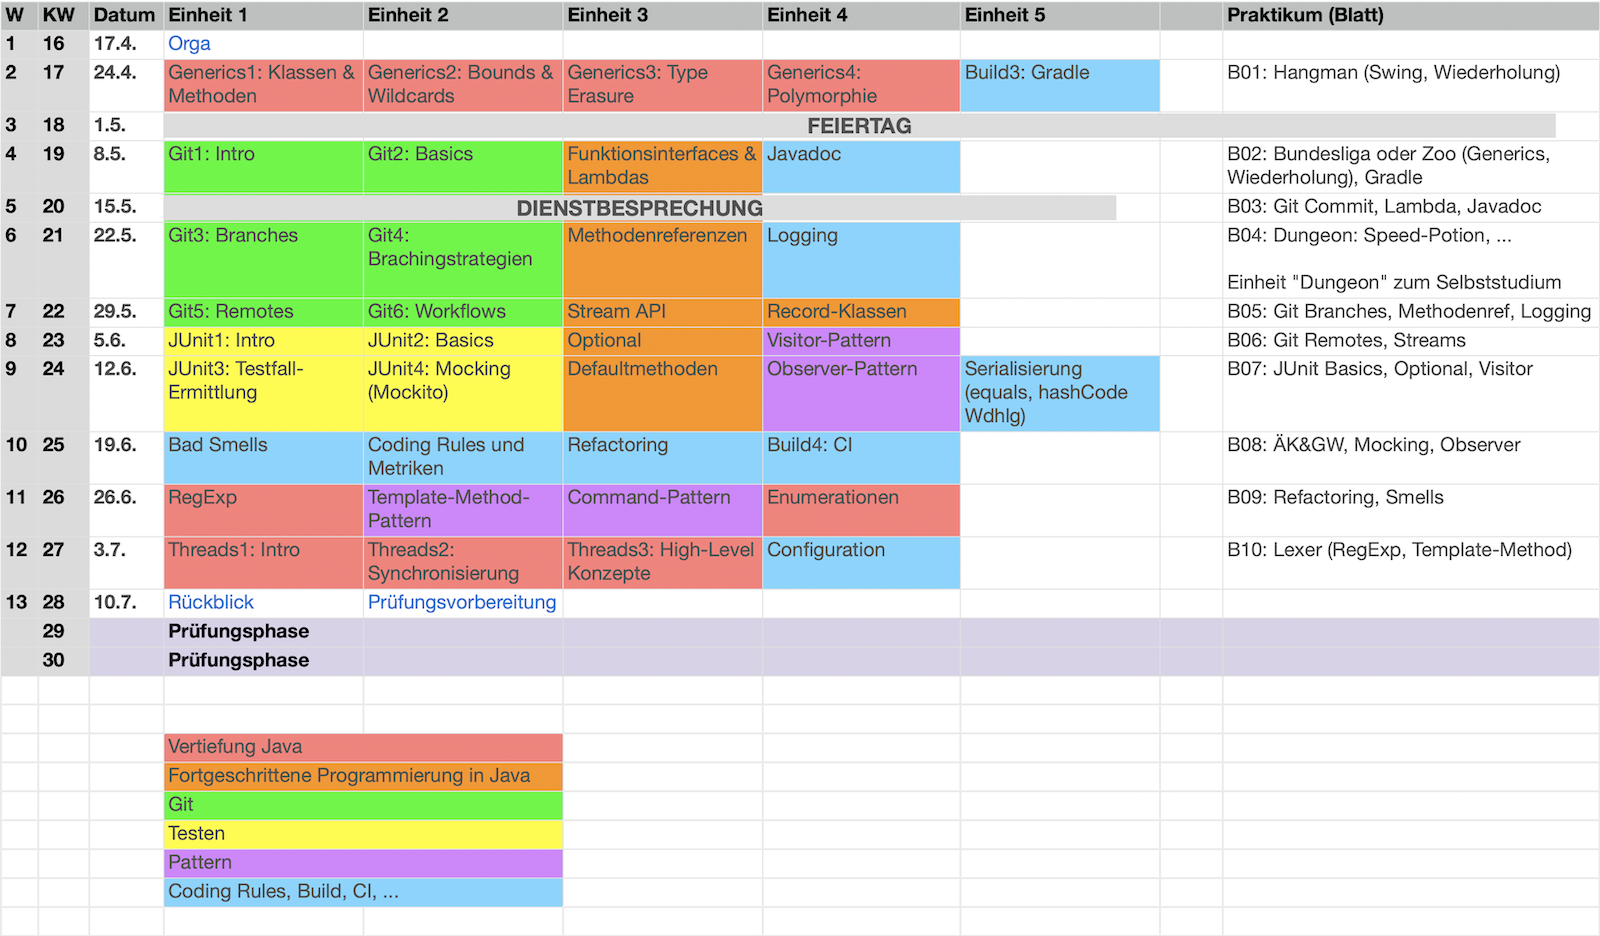
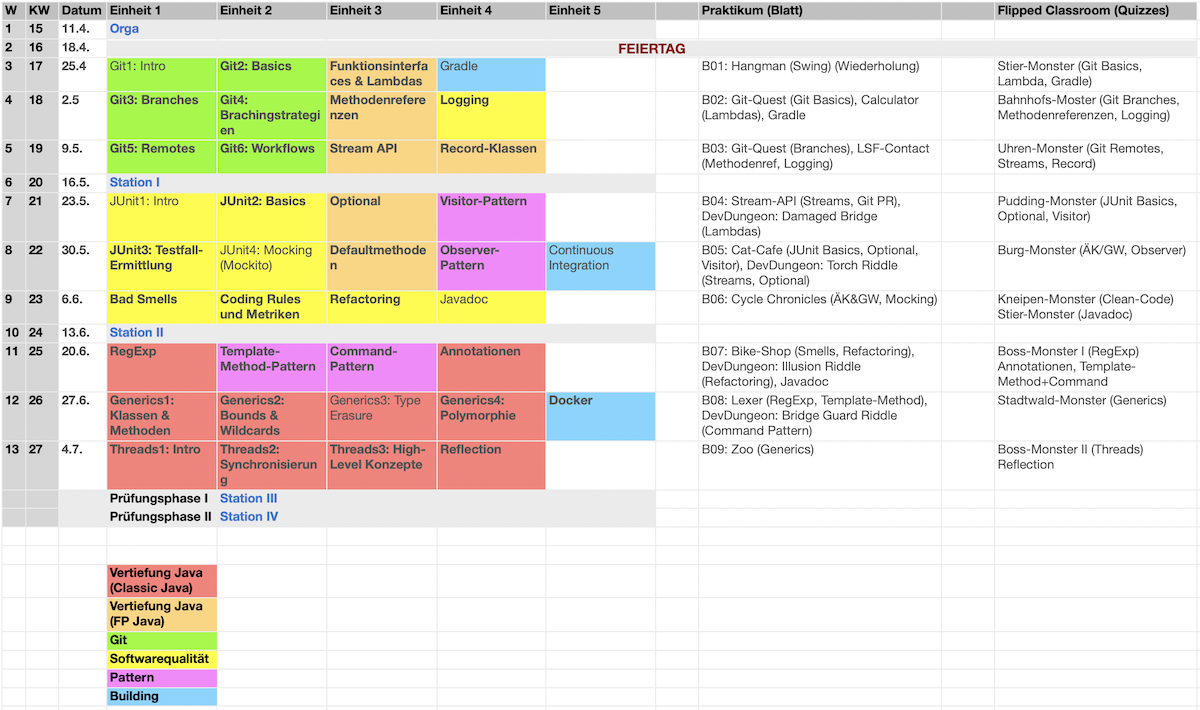
Orga: Update 'Fahrplan' for S25

diff --git a/readme.md b/readme.md
@@ -87,8 +87,8 @@ Durchführung als **Flipped Classroom**.
 |:-----------------|:----------------------|:-------|
 | Gruppe 1         | Fr, 09:45 - 11:15 Uhr | online |
 | Gruppe 2         | Fr, 11:30 - 13:00 Uhr | online |
-| Gruppe 3         | Mi, 09:45 - 11:15 Uhr | online |
-| Gruppe 4         | Mi, 11:30 - 13:00 Uhr | online |
+| Gruppe 3         | Fr, 09:45 - 11:15 Uhr | online |
+| Gruppe 4         | Fr, 11:30 - 13:00 Uhr | online |
 
 :::
 ::::::
@@ -111,27 +111,28 @@ Sie _können_ hierzu den Raum J101 bzw. J104 (vgl. Stundenplan) nutzen.
 
 Hier finden Sie einen abonnierbaren [Google Kalender] mit allen Terminen der Veranstaltung zum Einbinden in Ihre Kalender-App.
 
-| Monat | Tag   | Vorlesung                                                                                         | Praktikum        |
-|:------|:------|:--------------------------------------------------------------------------------------------------|:-----------------|
-| April | 17.   | Orga (**Zoom**), [FAQ]                                                                            |                  |
-|       | 24.   | Generics: [Klassen und Methoden], [Bounds und Wildcards], [Type Erasure], [Polymorphie]; [Gradle] | [B01]            |
-| Mai   | 01.   | **Mai-Feiertag**                                                                                  | **Mai-Feiertag** |
-|       | 08.   | [Einführung Versionierung], [Git Basics]; [Lambda-Ausdrücke]; [Javadoc]                           | [B02]            |
-|       | 15.   | **Dienstbesprechung**                                                                             | [B03]            |
-|       | 22.   | [Git-Branches], [Branching-Strategien]; [Methodenreferenzen]; [Logging]                           | [B04]            |
-|       | 29.   | [Git-Remotes], [Git-Workflows]; [Stream-API]; [Record-Klassen]; [Intro Dungeon]                   | [B05]            |
-| Juni  | 05.   | [Einführung Testen], [JUnit-Basics]; [Optional]; [Visitor-Pattern]                                | [B06]            |
-|       | 12.   | [Testfallermittlung], [Mocking]; [Default-Methoden]; [Observer-Pattern]; [Serialisierung]         | [B07]            |
-|       | 19.   | [Code-Smells], [Coding-Rules], [Refactoring]; [Continuous Integration (CI)]                       | [B08]            |
-|       | 26.   | [RegExp]; [Template-Method-Pattern], [Command-Pattern]; [Enumerationen]                           | [B09]            |
-| Juli  | 03.   | [Intro Threads], [Synchronisierung], [Highlevel Threadkonzepte]; [Konfiguration]                  | [B09]            |
-|       | 10.   | Rückblick (**Zoom**), [Prüfungsvorbereitung]                                                      |                  |
-|       | _tbd_ | Klausur (Campus Minden, B40)                                                                      |                  |
+| Monat              | Tag   | Vorlesung                                                                                              | Praktikum    |
+|:-------------------|:------|:-------------------------------------------------------------------------------------------------------|:-------------|
+| April              | 11.   | Orga (**Zoom**), [FAQ], [Prüfungsvorbereitung]                                                         |              |
+|                    | 18.   | **Feiertag**                                                                                           | **Feiertag** |
+|                    | 25.   | [Einführung Versionierung], [Git Basics]; [Lambda-Ausdrücke]; [Gradle]                                 | [B01]        |
+| Mai                | 02.   | [Git-Branches], [Branching-Strategien]; [Methodenreferenzen]; [Logging]                                | [B02]        |
+|                    | 09.   | [Git-Remotes], [Git-Workflows]; [Stream-API]; [Record-Klassen]                                         | [B03]        |
+|                    | 16.   | **Station I**                                                                                          |              |
+|                    | 23.   | [Einführung Testen], [JUnit-Basics]; [Optional]; [Visitor-Pattern]                                     | [B04]        |
+|                    | 30.   | [Testfallermittlung], [Mocking]; [Default-Methoden]; [Observer-Pattern]; [Continuous Integration (CI)] | [B05]        |
+| Juni               | 06.   | [Code-Smells], [Coding-Rules], [Refactoring]; [Javadoc]                                                | [B06]        |
+|                    | 13.   | **Station II**                                                                                         |              |
+|                    | 20.   | [RegExp]; [Template-Method-Pattern], [Command-Pattern]; [Annotationen]                                 | [B07]        |
+|                    | 27.   | Generics: [Klassen und Methoden], [Bounds und Wildcards], [Type Erasure], [Polymorphie]; [Docker]      | [B08]        |
+| Juli               | 04.   | [Intro Threads], [Synchronisierung], [Highlevel Threadkonzepte]; [Reflection]                          | [B09]        |
+| _Prüfungsphase I_  | _tbd_ | **Station III**                                                                                        |              |
+| _Prüfungsphase II_ | _tbd_ | **Station IV**                                                                                         |              |
 
 Abgabe der Übungsblätter jeweils **bis 08:00 Uhr** [im ILIAS](https://www.hsbi.de/elearning/goto.php?target=exc_1356670&client_id=FH-Bielefeld).
 
 
-[Google Kalender]: https://calendar.google.com/calendar/ical/5121604486803dcdb5cfaa8602b8b09ce76743d8b9216795606617cac807e595%40group.calendar.google.com/public/basic.ics
+[Google Kalender]: https://calendar.google.com/calendar/ical/69ecbae80c817d60571a6ec968890b9b7ef0ffea5ce5dad1ef06c46eef7c530f%40group.calendar.google.com/public/basic.ics
 
 [Prüfungsvorbereitung]: admin/exams.md
 [FAQ]: https://github.com/Programmiermethoden-CampusMinden/Prog2-Lecture/discussions/categories/q-a
@@ -140,7 +141,7 @@ Abgabe der Übungsblätter jeweils **bis 08:00 Uhr** [im ILIAS](https://www.hsbi
 <!-- [ANT]: lecture/building/ant.md -->
 <!-- [Maven]: lecture/building/maven.md -->
 [Continuous Integration (CI)]: lecture/building/ci.md
-<!-- [Docker]: lecture/building/docker.md -->
+[Docker]: lecture/building/docker.md
 
 [Einführung Versionierung]: lecture/git/git-intro.md
 [Git Basics]: lecture/git/git-basics.md
@@ -163,14 +164,14 @@ Abgabe der Übungsblätter jeweils **bis 08:00 Uhr** [im ILIAS](https://www.hsbi
 [Bounds und Wildcards]: lecture/java-classic/generics-bounds-wildcards.md
 [Type Erasure]: lecture/java-classic/generics-type-erasure.md
 [Polymorphie]: lecture/java-classic/generics-polymorphism.md
-[Serialisierung]: lecture/java-classic/serialisation.md
+<!-- [Serialisierung]: lecture/java-classic/serialisation.md -->
 <!-- [Collections]: lecture/java-classic/collections.md -->
 [RegExp]: lecture/java-classic/regexp.md
-<!-- [Annotationen]: lecture/java-classic/annotations.md -->
-<!-- [Reflection]: lecture/java-classic/reflection.md -->
+[Annotationen]: lecture/java-classic/annotations.md
+[Reflection]: lecture/java-classic/reflection.md
 <!-- [Exception-Handling]: lecture/java-classic/exceptions.md -->
-[Enumerationen]: lecture/java-classic/enums.md
-[Konfiguration]: lecture/java-classic/configuration.md
+<!-- [Enumerationen]: lecture/java-classic/enums.md -->
+<!-- [Konfiguration]: lecture/java-classic/configuration.md -->
 [Intro Threads]: lecture/java-classic/threads-intro.md
 [Synchronisierung]: lecture/java-classic/threads-synchronisation.md
 [Highlevel Threadkonzepte]: lecture/java-classic/threads-highlevel.md
@@ -183,7 +184,7 @@ Abgabe der Übungsblätter jeweils **bis 08:00 Uhr** [im ILIAS](https://www.hsbi
 [Default-Methoden]: lecture/java-modern/defaultmethods.md
 
 <!-- [Intro Frameworks]: lecture/misc/intro-frameworks.md -->
-[Intro Dungeon]: lecture/misc/dungeon.md
+<!-- [Intro Dungeon]: lecture/misc/dungeon.md -->
 
 <!-- [Strategy-Pattern]: lecture/pattern/strategy.md -->
 [Visitor-Pattern]: lecture/pattern/visitor.md
